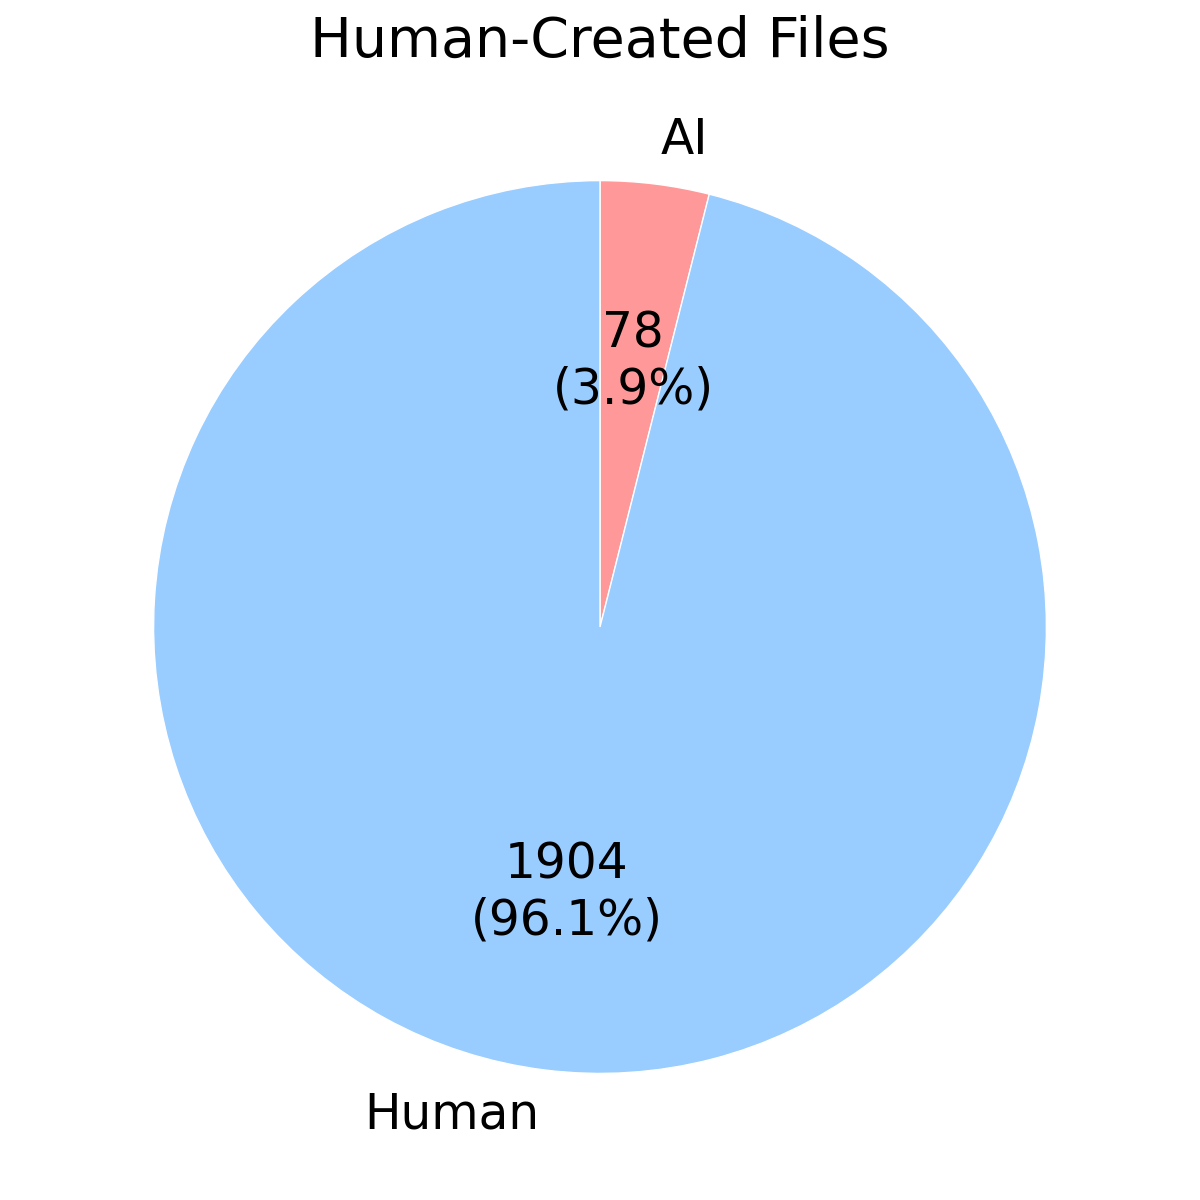
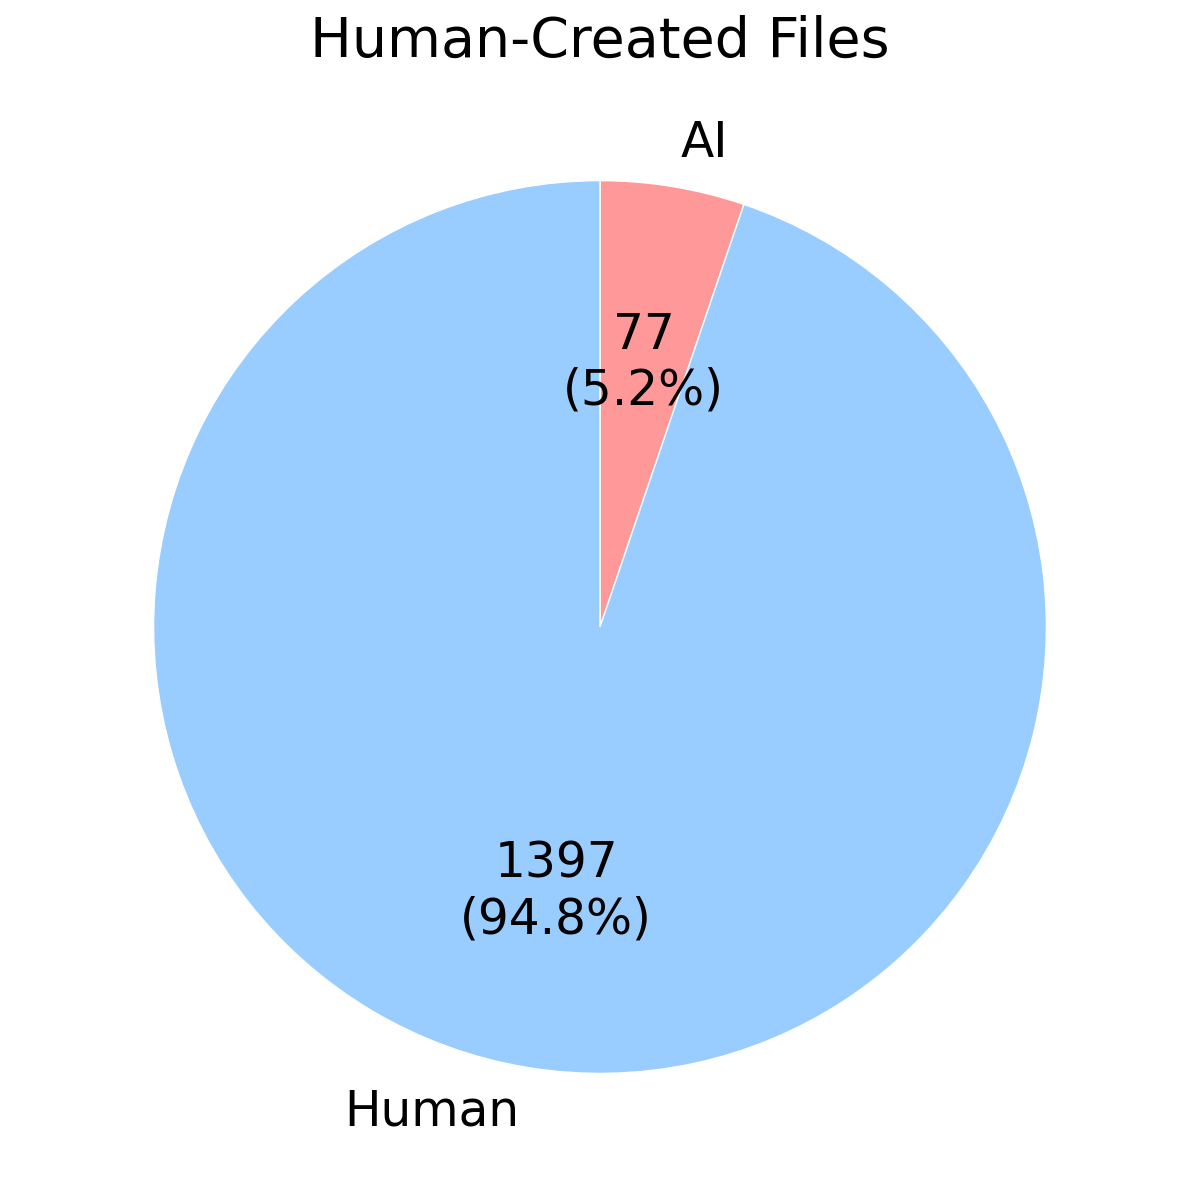
RQ2,3の結果にファイル作成コミットを含めないように調整

diff --git a/src/RQ2_analyze.py b/src/RQ2_analyze.py
@@ -29,11 +29,50 @@ def analyze_rq2():
         print(f"CSV読み込みエラー: {e}")
         return
 
+    # --- 全ファイル数のカウント（フィルタリング前） ---
+    all_files_count = df[['repository_name', 'file_name']].drop_duplicates().shape[0]
+    all_commits_count_raw = len(df)
+    
+    ai_files_total_df = df[df['file_created_by'] == 'AI']
+    ai_files_total_count = ai_files_total_df[['repository_name', 'file_name']].drop_duplicates().shape[0]
+    ai_commits_count_raw = len(ai_files_total_df)
+
+    human_files_total_df = df[df['file_created_by'] == 'Human']
+    human_files_total_count = human_files_total_df[['repository_name', 'file_name']].drop_duplicates().shape[0]
+    human_commits_count_raw = len(human_files_total_df)
+    # ----------------------------------------------
+
+    # --- 追加: ファイル作成コミットを除外する処理 ---
+    # 日付比較のためにdatetime型に変換
+    df['commit_date'] = pd.to_datetime(df['commit_date'])
+    df['file_creation_date'] = pd.to_datetime(df['file_creation_date'])
+    
+    # 作成日時とコミット日時が一致する行（作成コミット）を除外
+    # 修正: 一致する行をすべて削除するのではなく、各ファイルにつき1つだけ（最初の1つ）を除外する
+    original_count = len(df)
+    
+    # 条件に一致する行を特定
+    mask_creation = df['commit_date'] == df['file_creation_date']
+    
+    # 除外対象のインデックスを特定するための処理
+    # repository_nameとfile_nameでグループ化し、条件に合う最初の行のインデックスを取得
+    creation_commit_indices = df[mask_creation].groupby(['repository_name', 'file_name']).head(1).index
+    
+    # 特定したインデックスを除外
+    df = df.drop(creation_commit_indices)
+    
+    print(f"作成コミットを除外しました: {original_count} -> {len(df)} 件")
+    # --------------------------------------------
+
     # 結果格納用リスト
     results_text = []
     results_text.append("RQ2 分析結果: AI作成ファイルの保守主体分析")
     results_text.append("=" * 60)
     results_text.append(f"分析日時: {datetime.now().strftime('%Y-%m-%d %H:%M:%S')}")
+    
+    # 全体のファイル数
+    results_text.append(f"総ファイル数: {all_files_count}")
+    results_text.append(f"総コミット数 (CSV全体): {all_commits_count_raw}")
     results_text.append("")
 
     # ---------------------------------------------------------
@@ -53,7 +92,9 @@ def analyze_rq2():
     
     results_text.append("1. AI作成ファイルに対するコミット内訳")
     results_text.append("-" * 40)
-    results_text.append(f"総コミット数: {ai_total_commits}")
+    results_text.append(f"対象ファイル数: {ai_files_total_count}")
+    results_text.append(f"総コミット数 (CSV全体): {ai_commits_count_raw}")
+    results_text.append(f"分析対象コミット数 (作成除外後): {ai_total_commits}")
     results_text.append(f"AIによるコミット: {ai_ai_commits} ({ai_ai_ratio:.2f}%)")
     results_text.append(f"人間によるコミット: {ai_human_commits} ({ai_human_ratio:.2f}%)")
     results_text.append("")
@@ -83,7 +124,9 @@ def analyze_rq2():
     
     results_text.append("2. 人間作成ファイルに対するコミット内訳")
     results_text.append("-" * 40)
-    results_text.append(f"総コミット数: {human_total_commits}")
+    results_text.append(f"対象ファイル数: {human_files_total_count}")
+    results_text.append(f"総コミット数 (CSV全体): {human_commits_count_raw}")
+    results_text.append(f"分析対象コミット数 (作成除外後): {human_total_commits}")
     results_text.append(f"AIによるコミット: {human_ai_commits} ({human_ai_ratio:.2f}%)")
     results_text.append(f"人間によるコミット: {human_human_commits} ({human_human_ratio:.2f}%)")
     results_text.append("")

diff --git a/src/RQ3_analyze.py b/src/RQ3_analyze.py
@@ -17,6 +17,28 @@ def analyze_commit_classification():
         print(f"Error: File not found at {input_file}")
         return
 
+    # --- 追加: ファイル作成コミットを除外する処理 ---
+    # 日付比較のためにdatetime型に変換
+    df['commit_date'] = pd.to_datetime(df['commit_date'])
+    df['file_creation_date'] = pd.to_datetime(df['file_creation_date'])
+    
+    # 作成日時とコミット日時が一致する行（作成コミット）を除外
+    # 一致する行をすべて削除するのではなく、各ファイルにつき1つだけ（最初の1つ）を除外する
+    original_count = len(df)
+    
+    # 条件に一致する行を特定
+    mask_creation = df['commit_date'] == df['file_creation_date']
+    
+    # 除外対象のインデックスを特定するための処理
+    # repository_nameとfile_nameでグループ化し、条件に合う最初の行のインデックスを取得
+    creation_commit_indices = df[mask_creation].groupby(['repository_name', 'file_name']).head(1).index
+    
+    # 特定したインデックスを除外
+    df = df.drop(creation_commit_indices)
+    
+    print(f"作成コミットを除外しました: {original_count} -> {len(df)} 件")
+    # --------------------------------------------
+
     # AIと人間が作成したファイルのデータをフィルタリング
     ai_df = df[df['file_created_by'] == 'AI']
     human_df = df[df['file_created_by'] == 'Human']
@@ -67,7 +89,7 @@ def analyze_commit_classification():
         plot_values = []
         plot_labels = []
         legend_labels = [] # 凡例用の全ラベルリスト
-        slice_colors = []  # スライス用の色リスト
+        slice_colors = [] # スライス用の色リスト
         
         # 表示閾値（3%未満は表示しない）
         threshold = 0.03
